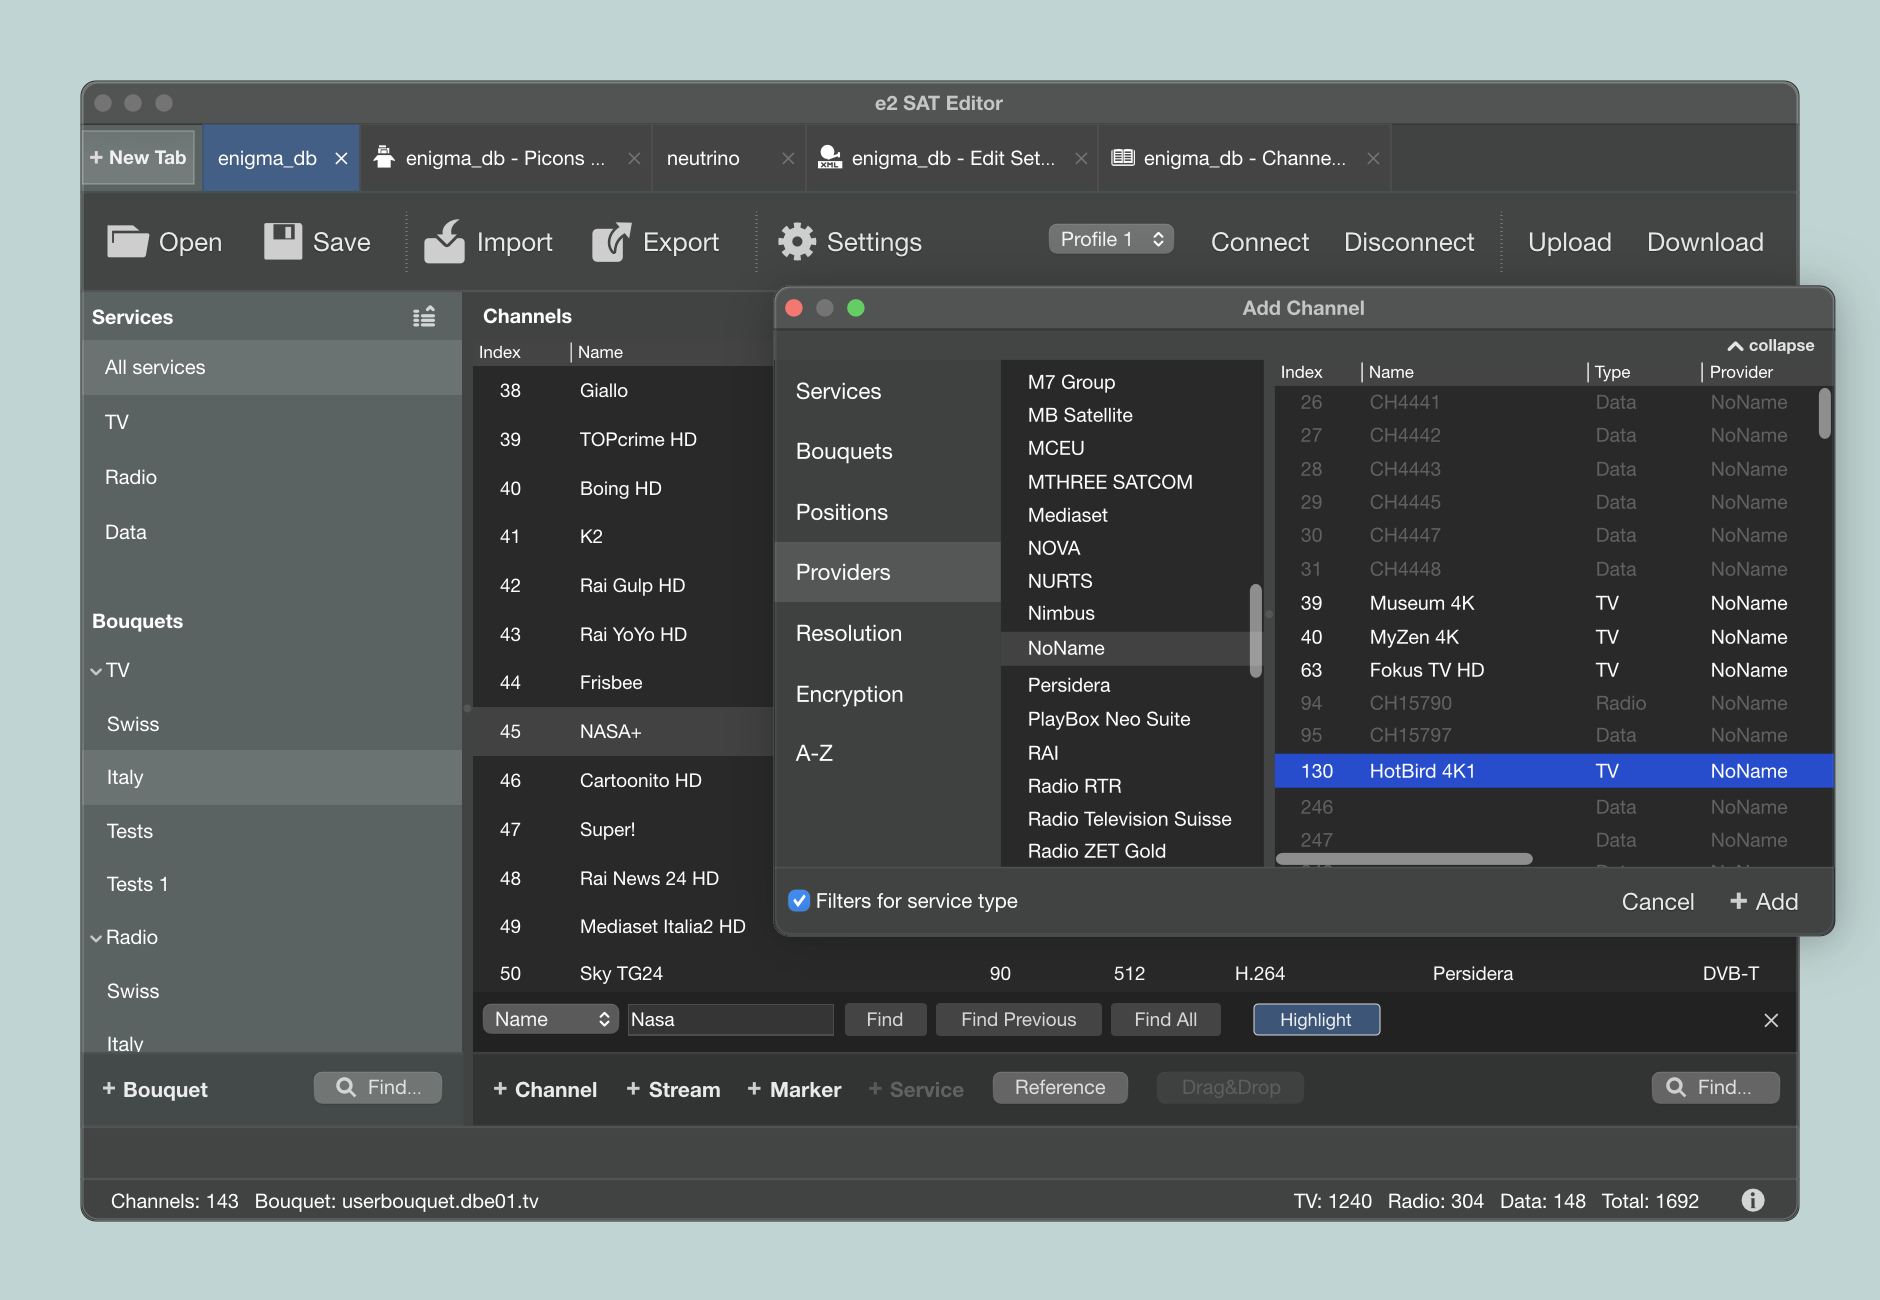
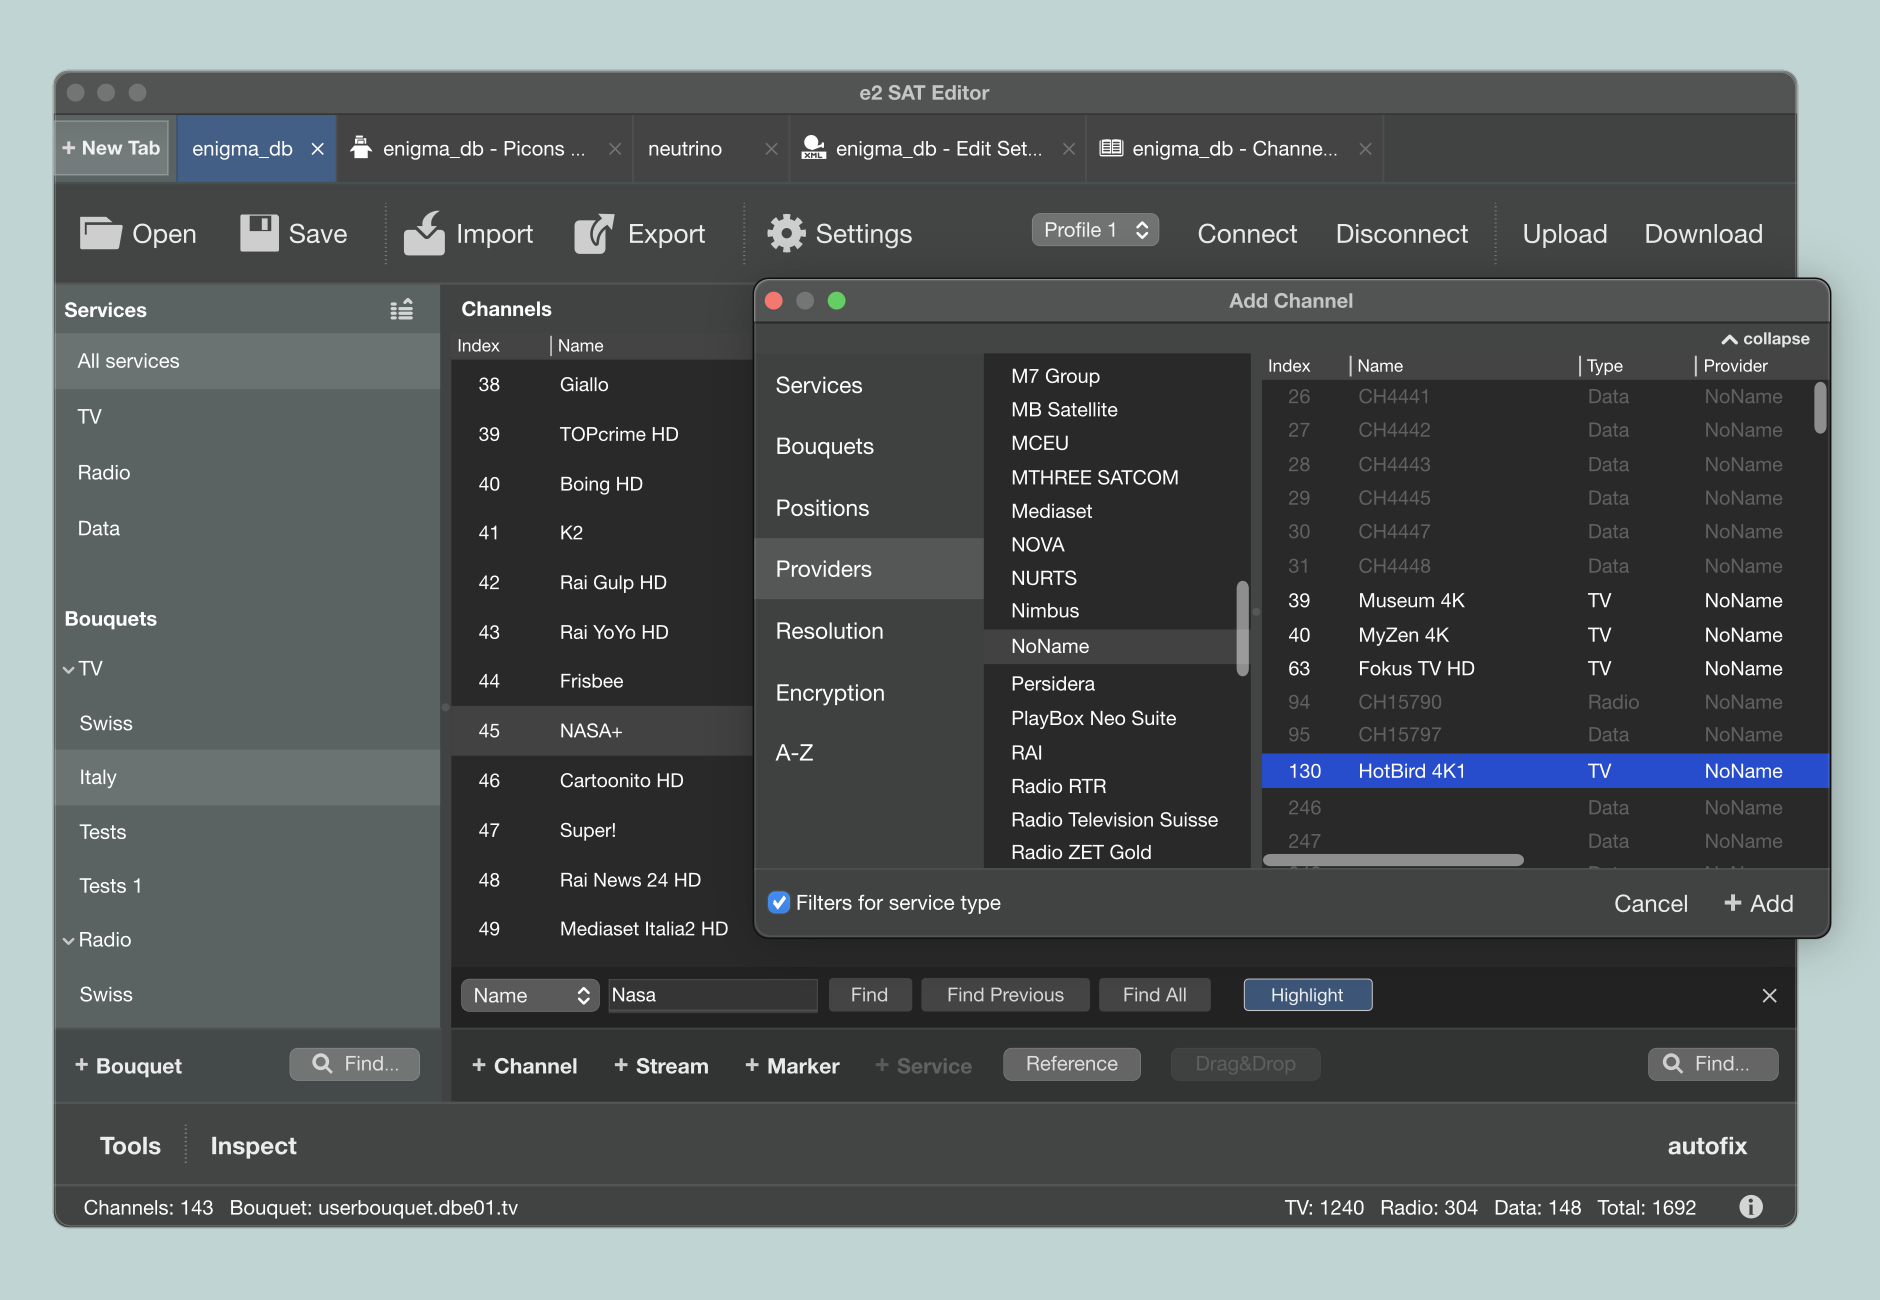
updated screenshot images, readme

diff --git a/README.md b/README.md
@@ -8,6 +8,8 @@ Cross-platform (Windows, macOS, Linux, Unix-like BSD) and free.
 
 It has tab navigation with global Cut-Copy-Paste support; Drag and Drop support; import and export of Lamedb, bouquets and userbouquets; FTP support; built-in Picons editor; tools for sorting and management of channel lists; non-destructive editing; dark and light themes.
 
+**NEW** utils: Error Checker, Autofix, remove duplicates, fix and remove parameters and flags, Sort channels and bouquets.
+
 It supports both Enigma2, Lamedb 4 and Lamedb 5 formats (2.4 and 2.5) and Enigma1 (2.3 and 2.2).
 
 And it supports also Neutrino xml (api v1, v2, v3, v4).
